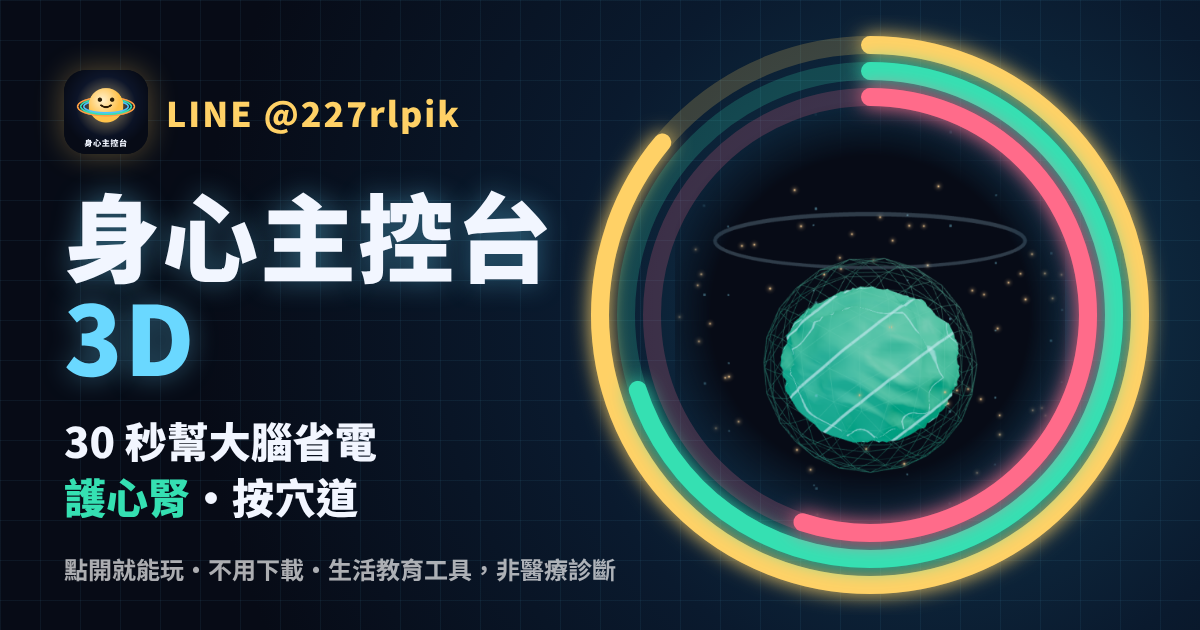
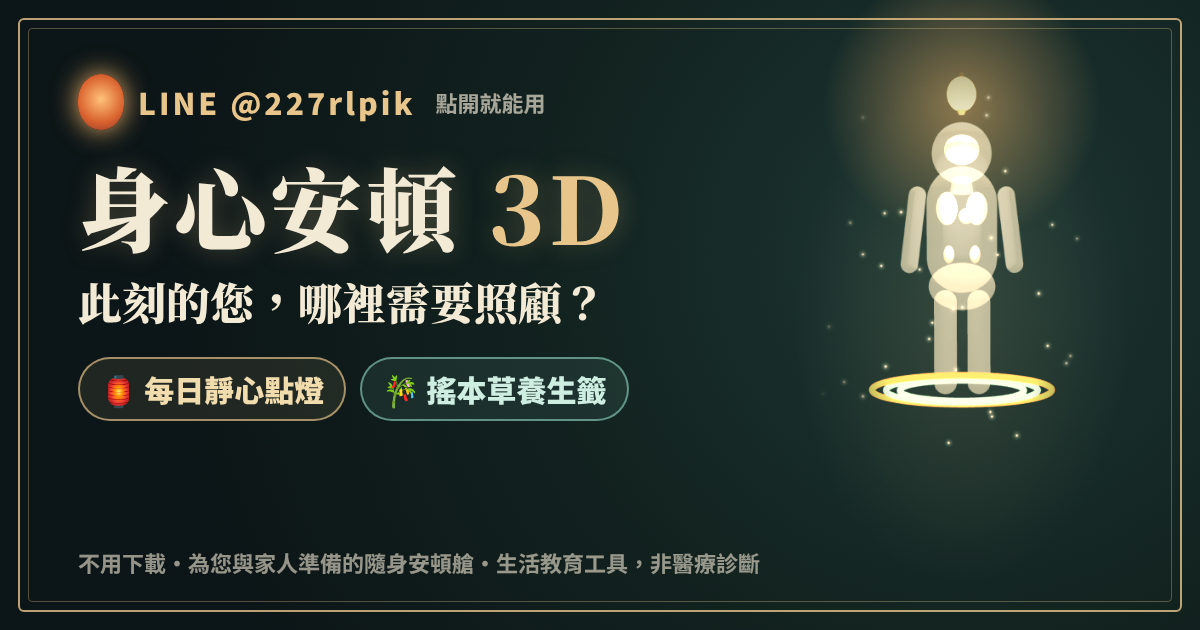
Add files via upload

diff --git a/index.html b/index.html
@@ -7,30 +7,30 @@
     <meta name="apple-mobile-web-app-capable" content="yes" />
     <meta name="mobile-web-app-capable" content="yes" />
     <meta name="apple-mobile-web-app-status-bar-style" content="black-translucent" />
-    <meta name="apple-mobile-web-app-title" content="身心主控台" />
+    <meta name="apple-mobile-web-app-title" content="身心安頓" />
     <link rel="icon" type="image/svg+xml" href="./icons/icon.svg" />
     <link rel="apple-touch-icon" href="./icons/apple-touch-icon.png" />
-    <title>身心主控台 3D｜30秒幫大腦省電・護心腎・按穴道</title>
-    <meta name="description" content="給長輩與家人的 3D 身體與大腦保養艙：30 秒嘆息呼吸、戳破煩惱、五臟飲食小卡、12 個穴道跟著按。生活教育工具，非醫療診斷。" />
+    <title>身心安頓 3D｜此刻的您，哪裡需要照顧？・每日靜心點燈・搖本草養生籤</title>
+    <meta name="description" content="為您與家人準備的隨身靜心與養生安頓艙：3D 暖玉人體與溫柔語音陪您嘆息呼吸、按穴道、看飲食紅綠燈，每天點亮一盞元氣燈。點開就能用、不用下載。生活教育工具，非醫療診斷。" />
     <!-- 分享預覽（LINE、Facebook 讀 og:*；圖片要用完整網址，爬蟲才抓得到） -->
     <meta property="og:type" content="website" />
-    <meta property="og:site_name" content="身心主控台 3D" />
+    <meta property="og:site_name" content="身心安頓 3D" />
     <meta property="og:locale" content="zh_TW" />
     <meta property="og:url" content="https://leozhou627.github.io/mindbody-override-3d/" />
-    <meta property="og:title" content="身心主控台 3D｜30秒幫大腦省電・護心腎・按穴道" />
-    <meta property="og:description" content="點開就能玩、不用下載。跟著 3D 大腦、心臟和肺一起做 1 分鐘保養，點亮今天的健康三環。生活教育工具，非醫療診斷。" />
+    <meta property="og:title" content="身心安頓 3D｜此刻的您，哪裡需要照顧？・每日靜心點燈・搖本草養生籤" />
+    <meta property="og:description" content="為您與家人準備的隨身靜心與養生安頓艙：3D 暖玉人體與溫柔語音陪您嘆息呼吸、按穴道、看飲食紅綠燈，每天點亮一盞元氣燈。點開就能用、不用下載。生活教育工具，非醫療診斷。" />
     <meta property="og:image" content="https://leozhou627.github.io/mindbody-override-3d/og-cover.png" />
     <meta property="og:image:secure_url" content="https://leozhou627.github.io/mindbody-override-3d/og-cover.png" />
     <meta property="og:image:type" content="image/png" />
     <meta property="og:image:width" content="1200" />
     <meta property="og:image:height" content="630" />
-    <meta property="og:image:alt" content="身心主控台 3D：3D 大腦與健康三環，30 秒幫大腦省電・護心腎・按穴道" />
+    <meta property="og:image:alt" content="身心安頓 3D：墨青底色上的暖玉人體與頭頂元氣燈，此刻的您，哪裡需要照顧？" />
     <meta name="twitter:card" content="summary_large_image" />
-    <meta name="twitter:title" content="身心主控台 3D｜30秒幫大腦省電・護心腎・按穴道" />
-    <meta name="twitter:description" content="點開就能玩、不用下載。跟著 3D 器官做 1 分鐘保養。生活教育工具，非醫療診斷。" />
+    <meta name="twitter:title" content="身心安頓 3D｜此刻的您，哪裡需要照顧？・每日靜心點燈・搖本草養生籤" />
+    <meta name="twitter:description" content="每日靜心點燈、搖本草養生籤，3D 暖玉人體陪您照顧自己。生活教育工具，非醫療診斷。" />
     <meta name="twitter:image" content="https://leozhou627.github.io/mindbody-override-3d/og-cover.png" />
     <link rel="canonical" href="https://leozhou627.github.io/mindbody-override-3d/" />
-    <script type="module" crossorigin src="./assets/index-gI9ubhb6.js"></script>
+    <script type="module" crossorigin src="./assets/index-DnxKOYXI.js"></script>
     <link rel="modulepreload" crossorigin href="./assets/three-byP_-_tB.js">
     <link rel="modulepreload" crossorigin href="./assets/r3f-B4ITXfcS.js">
     <link rel="stylesheet" crossorigin href="./assets/index-B5z5YfqC.css">

diff --git a/sw.js b/sw.js
@@ -1,1 +1,1 @@
-if(!self.define){let e,i={};const c=(c,n)=>(c=new URL(c+".js",n).href,i[c]||new Promise(i=>{if("document"in self){const e=document.createElement("script");e.src=c,e.onload=i,document.head.appendChild(e)}else e=c,importScripts(c),i()}).then(()=>{let e=i[c];if(!e)throw new Error(`Module ${c} didn’t register its module`);return e}));self.define=(n,s)=>{const o=e||("document"in self?document.currentScript.src:"")||location.href;if(i[o])return;let r={};const f=e=>c(e,o),a={module:{uri:o},exports:r,require:f};i[o]=Promise.all(n.map(e=>a[e]||f(e))).then(e=>(s(...e),r))}}define(["./workbox-9c191d2f"],function(e){"use strict";self.skipWaiting(),e.clientsClaim(),e.precacheAndRoute([{url:"registerSW.js",revision:"402b66900e731ca748771b6fc5e7a068"},{url:"index.html",revision:"79f19a18ae5f4a777bc91ebf74a14640"},{url:"icons/icon.svg",revision:"e8a5b19181369a44457aabaa01f8fdb6"},{url:"icons/icon-maskable-512.png",revision:"ac67d7bd5290f407cafc2020bb2513c6"},{url:"icons/icon-512.png",revision:"6e3f195cfb64fa326301c1d15fbf5f25"},{url:"icons/icon-192.png",revision:"2a4110ae7df6cabc409ac73dcb4ccf86"},{url:"icons/apple-touch-icon.png",revision:"c0e246269c8aecfbf90b09d1fc3b603e"},{url:"assets/three-byP_-_tB.js",revision:null},{url:"assets/r3f-B4ITXfcS.js",revision:null},{url:"assets/index-gI9ubhb6.js",revision:null},{url:"assets/index-B5z5YfqC.css",revision:null},{url:"icons/apple-touch-icon.png",revision:"c0e246269c8aecfbf90b09d1fc3b603e"},{url:"icons/icon-192.png",revision:"2a4110ae7df6cabc409ac73dcb4ccf86"},{url:"icons/icon-512.png",revision:"6e3f195cfb64fa326301c1d15fbf5f25"},{url:"icons/icon-maskable-512.png",revision:"ac67d7bd5290f407cafc2020bb2513c6"},{url:"icons/icon.svg",revision:"e8a5b19181369a44457aabaa01f8fdb6"},{url:"manifest.webmanifest",revision:"4c11c870982ff115c330101c5b574339"}],{}),e.cleanupOutdatedCaches(),e.registerRoute(new e.NavigationRoute(e.createHandlerBoundToURL("index.html")))});
+if(!self.define){let e,i={};const n=(n,c)=>(n=new URL(n+".js",c).href,i[n]||new Promise(i=>{if("document"in self){const e=document.createElement("script");e.src=n,e.onload=i,document.head.appendChild(e)}else e=n,importScripts(n),i()}).then(()=>{let e=i[n];if(!e)throw new Error(`Module ${n} didn’t register its module`);return e}));self.define=(c,s)=>{const o=e||("document"in self?document.currentScript.src:"")||location.href;if(i[o])return;let r={};const f=e=>n(e,o),a={module:{uri:o},exports:r,require:f};i[o]=Promise.all(c.map(e=>a[e]||f(e))).then(e=>(s(...e),r))}}define(["./workbox-9c191d2f"],function(e){"use strict";self.skipWaiting(),e.clientsClaim(),e.precacheAndRoute([{url:"registerSW.js",revision:"402b66900e731ca748771b6fc5e7a068"},{url:"index.html",revision:"ea9989cf9bb0bdc2fec335fa7ce6653d"},{url:"icons/icon.svg",revision:"e8a5b19181369a44457aabaa01f8fdb6"},{url:"icons/icon-maskable-512.png",revision:"ac67d7bd5290f407cafc2020bb2513c6"},{url:"icons/icon-512.png",revision:"6e3f195cfb64fa326301c1d15fbf5f25"},{url:"icons/icon-192.png",revision:"2a4110ae7df6cabc409ac73dcb4ccf86"},{url:"icons/apple-touch-icon.png",revision:"c0e246269c8aecfbf90b09d1fc3b603e"},{url:"assets/three-byP_-_tB.js",revision:null},{url:"assets/r3f-B4ITXfcS.js",revision:null},{url:"assets/index-DnxKOYXI.js",revision:null},{url:"assets/index-B5z5YfqC.css",revision:null},{url:"icons/apple-touch-icon.png",revision:"c0e246269c8aecfbf90b09d1fc3b603e"},{url:"icons/icon-192.png",revision:"2a4110ae7df6cabc409ac73dcb4ccf86"},{url:"icons/icon-512.png",revision:"6e3f195cfb64fa326301c1d15fbf5f25"},{url:"icons/icon-maskable-512.png",revision:"ac67d7bd5290f407cafc2020bb2513c6"},{url:"icons/icon.svg",revision:"e8a5b19181369a44457aabaa01f8fdb6"},{url:"manifest.webmanifest",revision:"65969708b37048efaf1237247614eea8"}],{}),e.cleanupOutdatedCaches(),e.registerRoute(new e.NavigationRoute(e.createHandlerBoundToURL("index.html")))});
